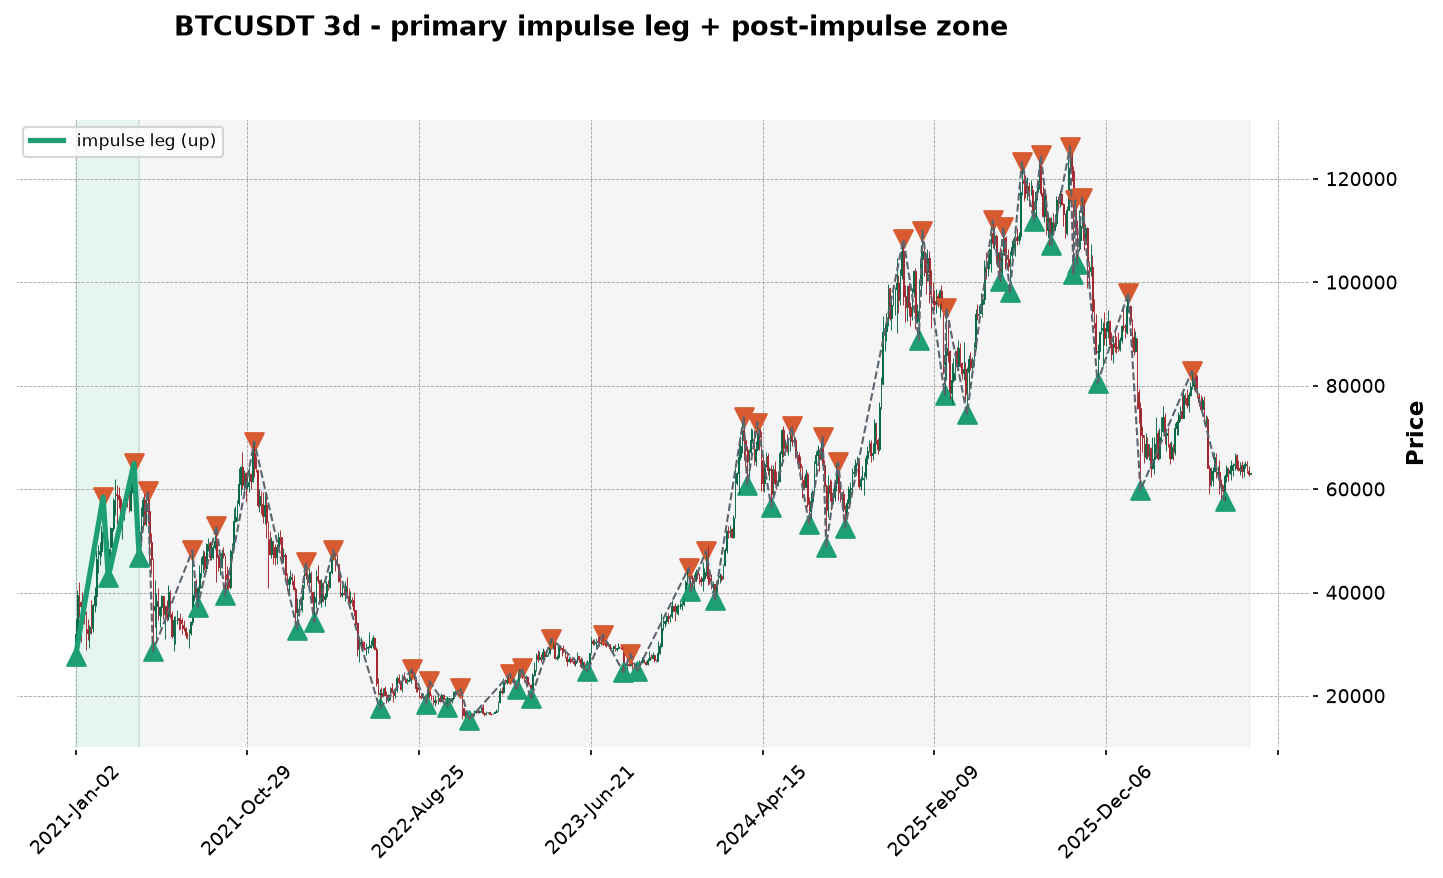
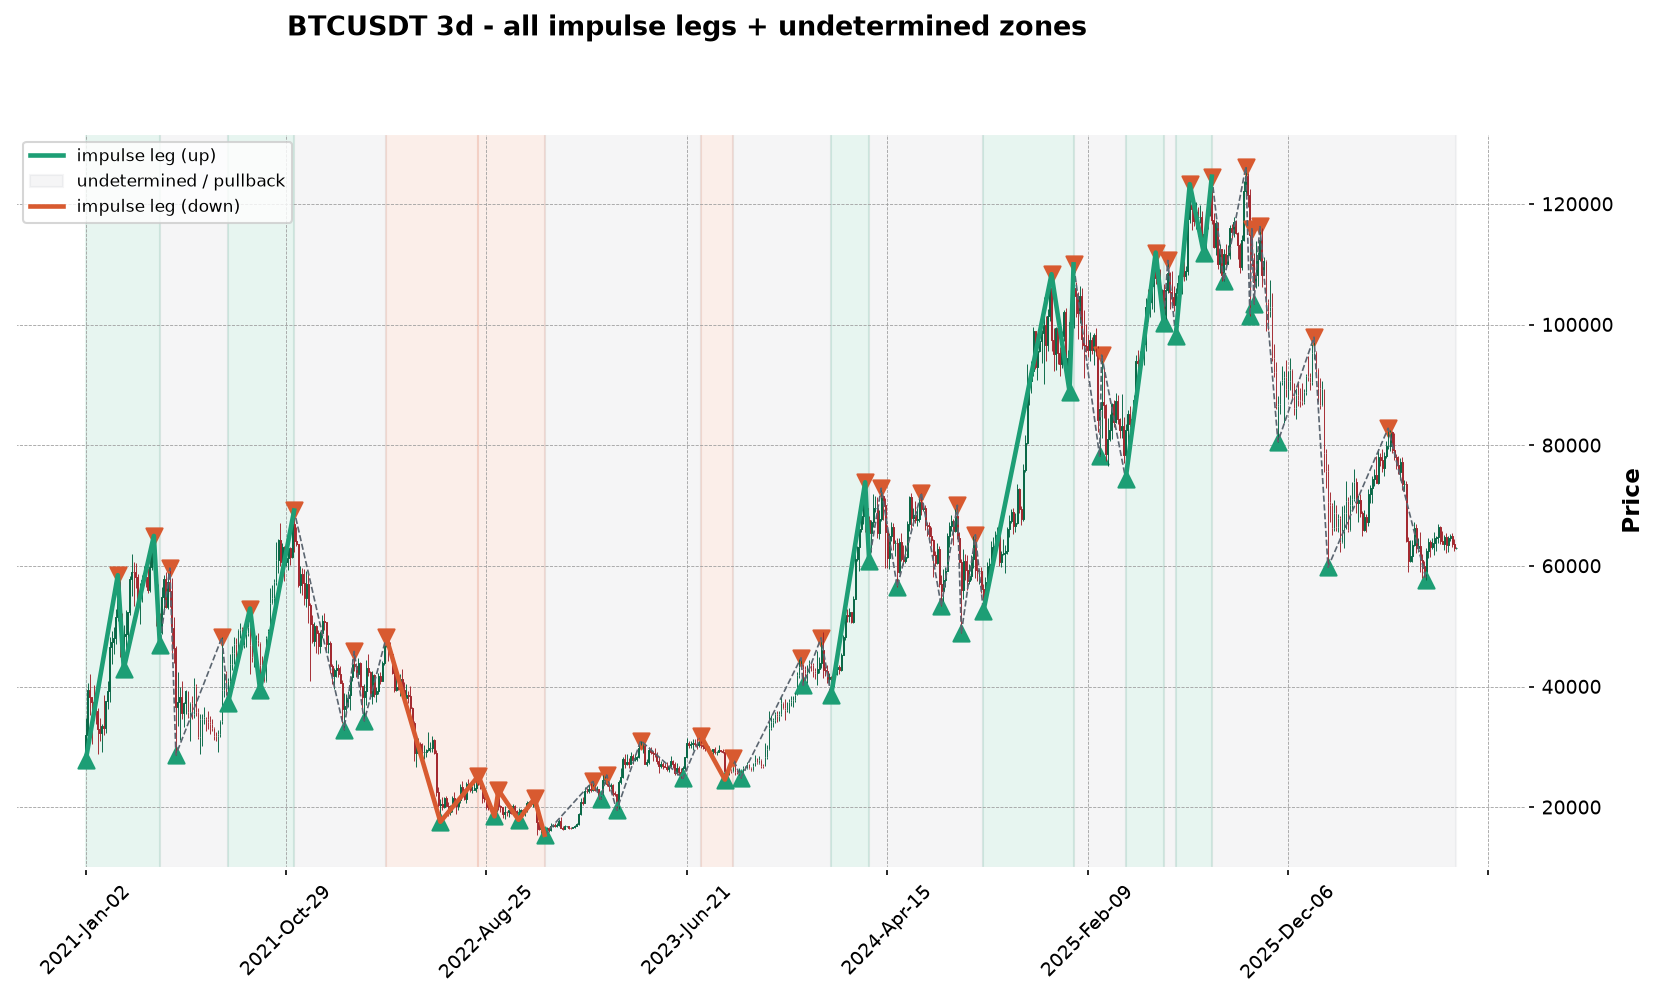
First amendment on legging.

diff --git a/python/legging/plotImpulseLegs.py b/python/legging/plotImpulseLegs.py
@@ -1,7 +1,9 @@
 """
-Step 2 (visualization half): highlight the detected primary impulse leg on
-top of the candlestick + swing point chart from step 1, so it's easy to
-sanity-check the leg by eye against the swing markers.
+Step 2 (visualization half): highlight ALL detected impulse legs on top of
+the candlestick + swing point chart from step 1. Each leg is drawn as a
+thick colored line with a shaded background; the gaps BETWEEN legs (and
+after the last one) are what's left undetermined - pullback candidates for
+step 3/4 to characterize, not impulse legs themselves.
 """
 
 import pandas as pd
@@ -16,17 +18,17 @@ import numpy as np
 from pathlib import Path
 
 
-def plotCandlesWithImpulseLeg(klines: pd.DataFrame, swings: list[SwingPoint],
-                               impulseLeg: ImpulseLeg | None,
-                               title: str = "Kline with impulse leg",
-                               savePath: str | None = None) -> None:
+def plotCandlesWithImpulseLegs(klines: pd.DataFrame, swings: list[SwingPoint],
+                                impulseLegs: list[ImpulseLeg],
+                                title: str = "Kline with impulse legs",
+                                savePath: str | None = None) -> None:
     highMarkers, lowMarkers = buildSwingMarkerSeries(klines, swings)
     zigZagLine = highMarkers.combine_first(lowMarkers).interpolate(limit_area="inside")
 
     addPlots = [
-        mpf.make_addplot(highMarkers, type="scatter", markersize=80, marker="v", color="#D85A30"),
-        mpf.make_addplot(lowMarkers, type="scatter", markersize=80, marker="^", color="#1D9E75"),
-        mpf.make_addplot(zigZagLine, type="line", color="#5B6570", width=1.0, linestyle="--"),
+        mpf.make_addplot(highMarkers, type="scatter", markersize=60, marker="v", color="#D85A30"),
+        mpf.make_addplot(lowMarkers, type="scatter", markersize=60, marker="^", color="#1D9E75"),
+        mpf.make_addplot(zigZagLine, type="line", color="#5B6570", width=0.8, linestyle="--"),
     ]
 
     figureStyle = mpf.make_mpf_style(base_mpf_style="charles", rc={"font.size": 9})
@@ -38,27 +40,43 @@ def plotCandlesWithImpulseLeg(klines: pd.DataFrame, swings: list[SwingPoint],
         addplot=addPlots,
         title=title,
         ylabel="Price",
-        figsize=(12, 6),
+        figsize=(14, 7),
         returnfig=True,
+        warn_too_much_data=len(klines) + 1,
     )
+    axis = axes[0]
 
-    if impulseLeg is not None:
-        axis = axes[0]
-        impulseColor = "#1D9E75" if impulseLeg.direction.value == "up" else "#D85A30"
+    lastEnd = 0
+    upLabelled, downLabelled, pullbackLabelled = False, False, False
 
-        axis.axvspan(impulseLeg.startIndex, impulseLeg.endIndex,
-                     color=impulseColor, alpha=0.10, zorder=0)
+    for leg in impulseLegs:
+        # gap before this leg = undetermined / pullback candidate zone
+        if leg.startIndex > lastEnd:
+            axis.axvspan(lastEnd, leg.startIndex, color="#5B6570", alpha=0.06, zorder=0,
+                         label="undetermined / pullback" if not pullbackLabelled else None)
+            pullbackLabelled = True
 
-        legPrices = [klines.index[p.barIndex] for p in impulseLeg.swingPoints]
-        legY = [p.price for p in impulseLeg.swingPoints]
-        legX = [p.barIndex for p in impulseLeg.swingPoints]
-        axis.plot(legX, legY, color=impulseColor, linewidth=2.5, zorder=5,
-                  label=f"impulse leg ({impulseLeg.direction.value})")
-        axis.legend(loc="upper left", fontsize=8)
+        impulseColor = "#1D9E75" if leg.direction.value == "up" else "#D85A30"
+        axis.axvspan(leg.startIndex, leg.endIndex, color=impulseColor, alpha=0.10, zorder=0)
 
-        postImpulseStart = impulseLeg.endIndex
-        axis.axvspan(postImpulseStart, len(klines) - 1,
-                     color="#5B6570", alpha=0.06, zorder=0)
+        legX = [p.barIndex for p in leg.swingPoints]
+        legY = [p.price for p in leg.swingPoints]
+        labelKw = {}
+        if leg.direction.value == "up" and not upLabelled:
+            labelKw = {"label": "impulse leg (up)"}
+            upLabelled = True
+        elif leg.direction.value == "down" and not downLabelled:
+            labelKw = {"label": "impulse leg (down)"}
+            downLabelled = True
+        axis.plot(legX, legY, color=impulseColor, linewidth=2.2, zorder=5, **labelKw)
+
+        lastEnd = leg.endIndex
+
+    if lastEnd < len(klines) - 1:
+        axis.axvspan(lastEnd, len(klines) - 1, color="#5B6570", alpha=0.06, zorder=0,
+                     label="undetermined / pullback" if not pullbackLabelled else None)
+
+    axis.legend(loc="upper left", fontsize=8)
 
     if savePath:
         Path(savePath).parent.mkdir(parents=True, exist_ok=True)
@@ -71,22 +89,24 @@ def plotCandlesWithImpulseLeg(klines: pd.DataFrame, swings: list[SwingPoint],
 if __name__ == "__main__":
     from .impulseLegs import detectImpulseLegs
 
-    for parquetFile, label in [
+    datasets = [
         ("data/MUUSDT_1d.parquet", "MUUSDT 1d"),
         ("data/SNDKUSDT_1d.parquet", "SNDKUSDT 1d"),
         ("data/BTCUSDT_3d.parquet", "BTCUSDT 3d"),
-        ("data/BTCUSDT_4h.parquet", "BTCUSDT 4h"),
-    ]:
+    ]
+
+    for parquetFile, label in datasets:
         klinesIndexed = loadKlines(parquetFile)
         klinesFlat = klinesIndexed.reset_index()
 
         swings = detectSwingPoints(klinesFlat, useAtr=True, atrPeriod=14, atrMultiple=2.0)
-        legs = detectImpulseLegs(swings, klinesFlat, atrPeriod=14, minRunAtrMultiple=4.0)
-        primaryLeg = legs[0] if legs else None
+        legs = detectImpulseLegs(swings, klinesFlat, atrPeriod=14,
+                                  minRunAtrMultiple=4.0, minReversalAtrMultiple=1.0)
+        print(f"{label}: {len(legs)} impulse legs detected")
 
         outPath = f"output/{parquetFile.split('/')[-1].replace('.parquet', '')}_impulse.png"
-        plotCandlesWithImpulseLeg(
-            klinesIndexed, swings, primaryLeg,
-            title=f"{label} - primary impulse leg + post-impulse zone",
+        plotCandlesWithImpulseLegs(
+            klinesIndexed, swings, legs,
+            title=f"{label} - all impulse legs + undetermined zones",
             savePath=outPath,
         )
